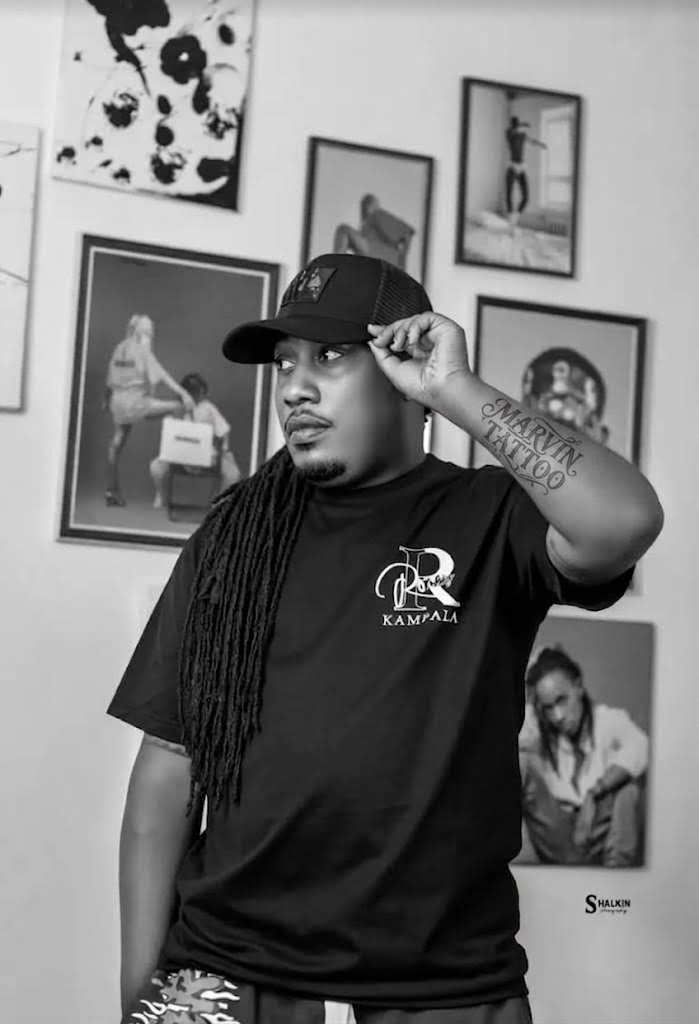
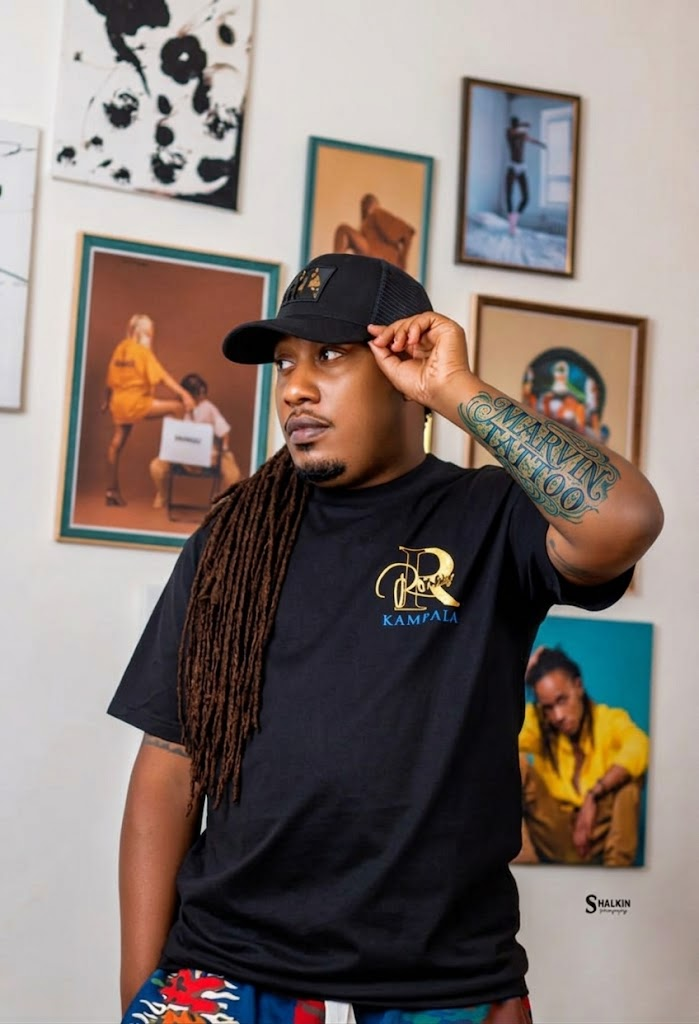
feat: replace Marvin photo with full-color original and update hover reveal

diff --git a/src/pages/AboutPage.tsx b/src/pages/AboutPage.tsx
@@ -33,8 +33,8 @@ export const AboutPage: React.FC<AboutPageProps> = ({ onNavigate, onOpenWhatsApp
             <div className="lg:col-span-7 flex flex-col justify-between bg-noir-900 rounded-xl overflow-hidden relative group border border-noir-700/80">
               <div className="relative h-[480px] md:h-[580px] w-full overflow-hidden">
                 <img
-                  alt="Marvin in studio holding tattoo machine"
-                  className="w-full h-full object-cover object-center filter grayscale contrast-125 brightness-90 group-hover:scale-105 transition-transform duration-700"
+                  alt="Marvin - Founder & Resident Tattooist"
+                  className="w-full h-full object-cover object-[center_15%] scale-105 filter grayscale contrast-125 brightness-95 group-hover:grayscale-0 group-hover:contrast-100 group-hover:brightness-100 group-hover:scale-110 transition-all duration-700 ease-out"
                   src={masterMarvin.avatar}
                 />
                 <div className="absolute inset-0 bg-gradient-to-t from-noir-900 via-noir-900/25 to-transparent" />
